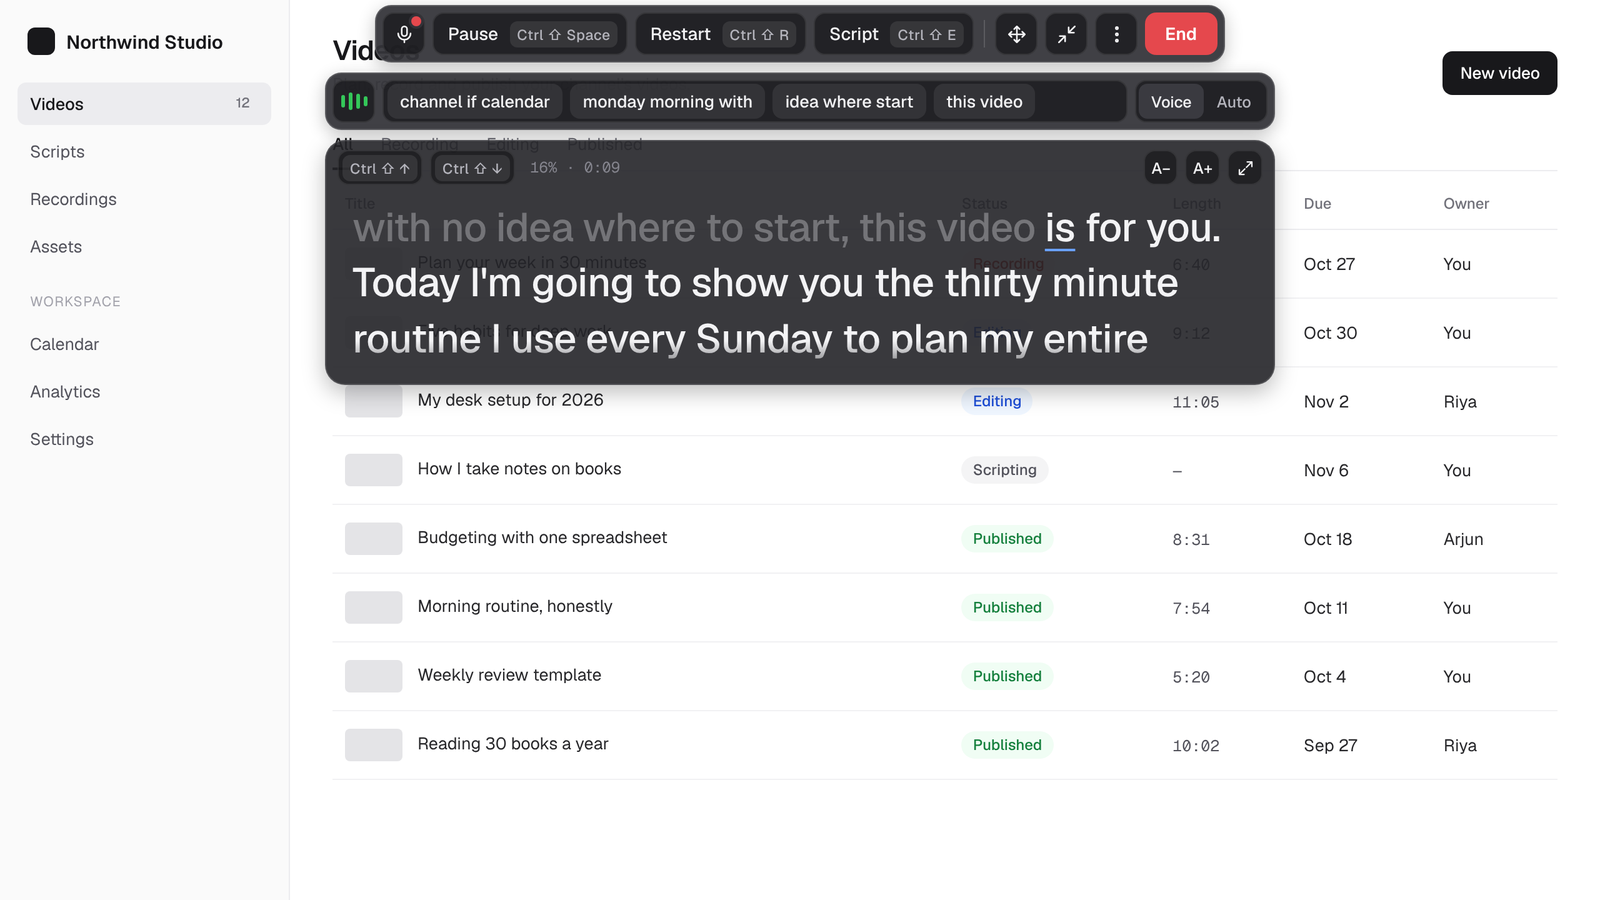
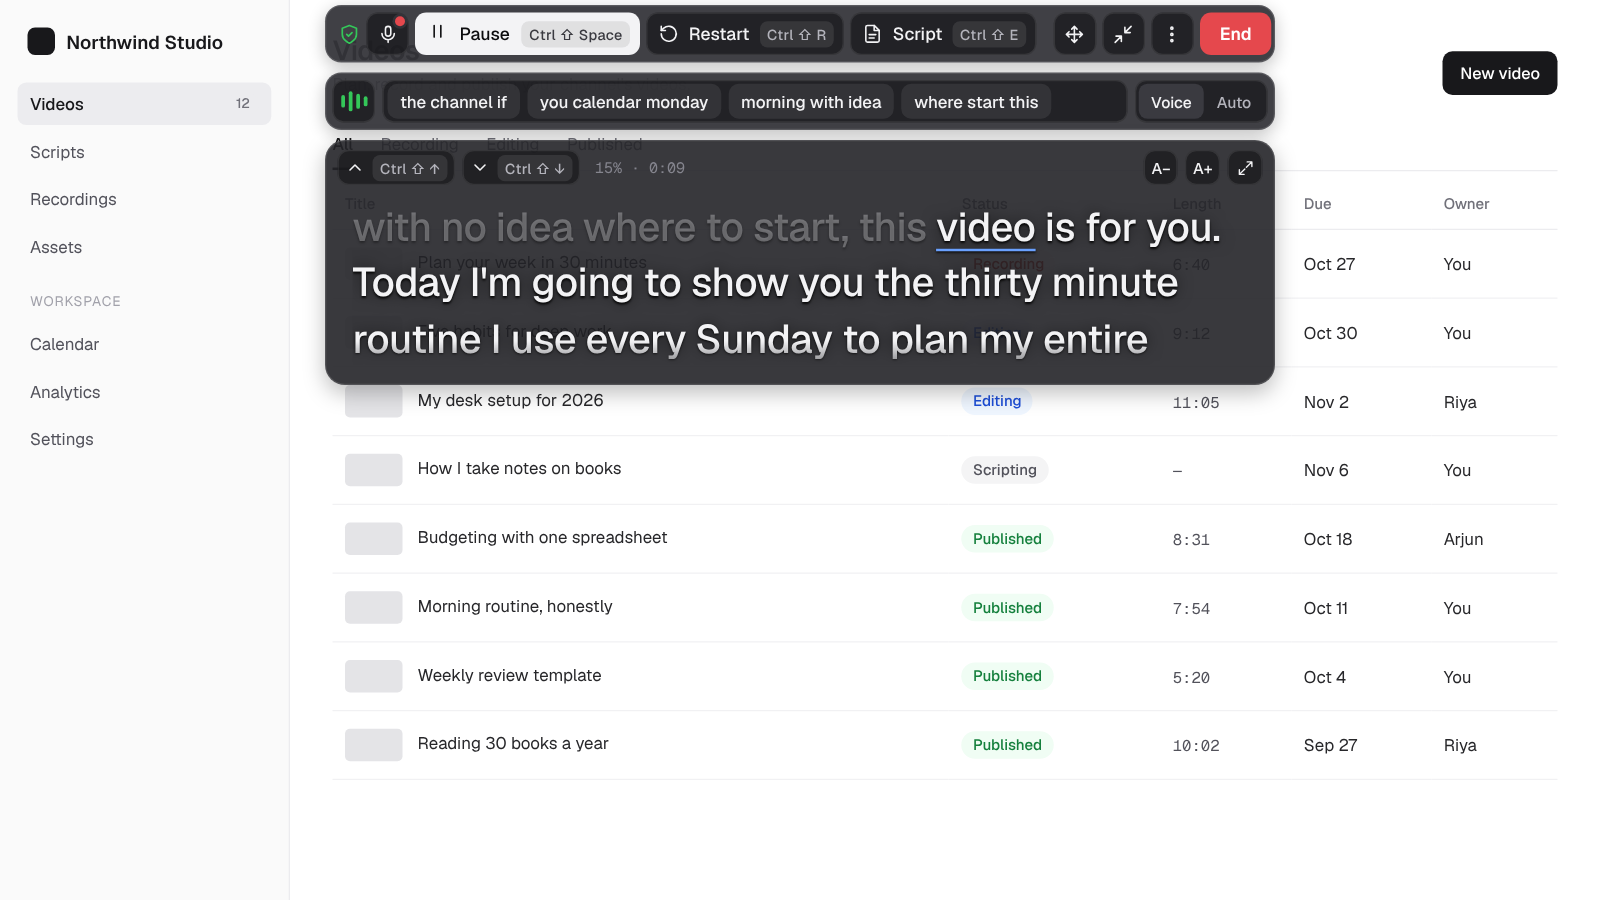
Update the README, screenshots and setup notes for the new controls

diff --git a/README.md b/README.md
@@ -44,16 +44,18 @@ The first part removes the "downloaded from the internet" flag. The second signs
   <img src="docs/overlay.png" alt="The overlay over a video-planning app: control bar, transcript bar and a three-line script panel" width="900">
 </p>
 
-The overlay floats above every app in three pieces. The top bar holds the controls, each labelled with its shortcut. The bar under it shows the words Eyeline just heard, so you can tell at a glance that it's keeping up. Your script sits in the panel below.
+The overlay floats above every app in three pieces. The top bar holds the controls, each labelled with its shortcut. The bar under it shows the words Eyeline just heard, so you can tell at a glance that it's keeping up. Your script sits in the panel below. On a narrow overlay the top bar drops the shortcut labels first, so it never spills past the script.
 
 - Voice follow moves the script to the word you're on as you say it. Spoken words fade and the next one is underlined. It holds still while you pause or ad-lib, and jumps ahead if you skip a sentence.
 - Auto-scroll runs at a steady words-per-minute speed for when you'd rather not use the microphone.
 - Moving lines shows a few short lines that slide up. One phrase shows only the next few words, which keeps eye movement to a minimum.
 - Clicks on the script text pass through to the app underneath, so you can keep working in your slides or recorder. The bars stay clickable.
 - Drag the overlay anywhere by its move button or the empty parts of its bars. It reopens where you left it.
-- Hide from screen recordings keeps Eyeline out of screen shares and recordings while you still see it. How well that works depends on the operating system, as the next section explains.
+- Hide from screen recording & screen sharing keeps Eyeline out of recordings, screenshots and screen shares while you still see it. A green badge in the main window and a shield on the overlay tell you it's on, and clicking the badge turns it off or on. How well it works depends on the operating system, as the next section explains.
 - Cues in square brackets, like `[pause]` or `[smile]`, show up in blue and aren't expected to be spoken.
-- Paste a script or upload a `.txt` or `.docx` file. Edits in the main window reach the overlay as you type.
+- Drop a `.txt`, `.docx` or `.md` file anywhere on the main window, pick one with Import, paste from the clipboard, or type. If a file can't be read, Eyeline says why and what to do instead. Edits reach the overlay as you type.
+- Clear, Import and Reset settings never ask "are you sure?". Each one shows an Undo button for a few seconds instead.
+- The microphone button on the overlay mutes voice follow and holds your place until you unmute. The ⋮ button opens a menu with the hiding status, Settings, Move under the camera, and Quit.
 - You can change the text size, line length, number of lines, words per phrase and background opacity (all the way to fully clear), and turn on a text shadow, a compact view, or script-above-controls so the words sit closest to the camera.
 - Global shortcuts work while you're in another app.
 - English (US accent) is built in. English (Indian accent) and Hindi download once, 35 to 45 MB each, the first time you pick them.
@@ -64,7 +66,7 @@ The overlay floats above every app in three pieces. The top bar holds the contro
 
 ## Hiding from screen recording and screen sharing
 
-With Hide from screen recordings switched on (the default), Eyeline asks the operating system to leave its windows out of screen capture. You still see them normally. How much the operating system honours that request varies a lot:
+With Hide from screen recording & screen sharing switched on (the default), Eyeline asks the operating system to leave its windows out of screen capture. You still see them normally. How much the operating system honours that request varies a lot:
 
 | | Result |
 |---|---|

diff --git a/.github/release-notes.md b/.github/release-notes.md
@@ -15,4 +15,4 @@ On a Mac, run this once in Terminal after moving Eyeline to Applications, becaus
 xattr -cr /Applications/Eyeline.app && codesign --force --deep --sign - /Applications/Eyeline.app
 ```
 
-Hiding from screen recordings works fully on Windows, only against Google Meet in Chrome on macOS 15 and later, and not at all on Linux. The [README](https://github.com/HarshSharma-28/eyeline#hiding-from-screen-recording-and-screen-sharing) explains why.
+Hide from screen recording & screen sharing works fully on Windows, only against Google Meet in Chrome on macOS 15 and later, and not at all on Linux. The [README](https://github.com/HarshSharma-28/eyeline#hiding-from-screen-recording-and-screen-sharing) explains why.
